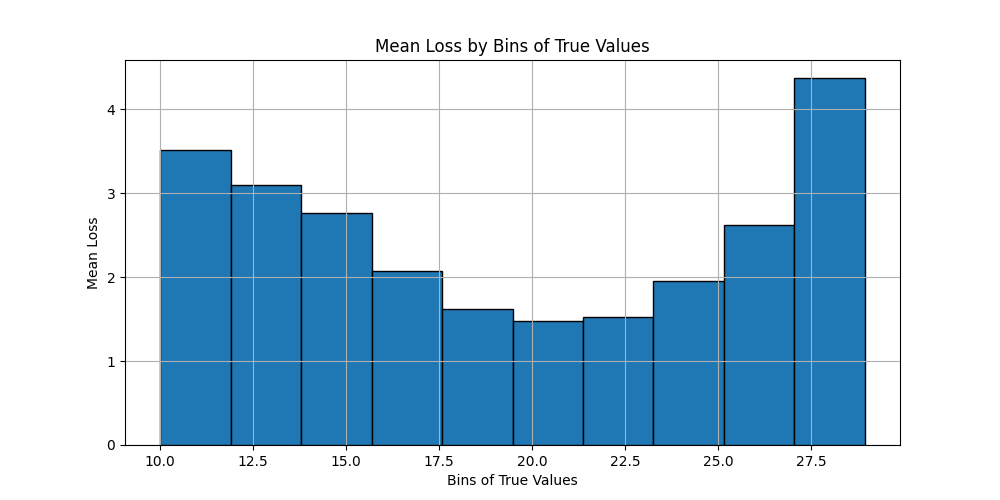
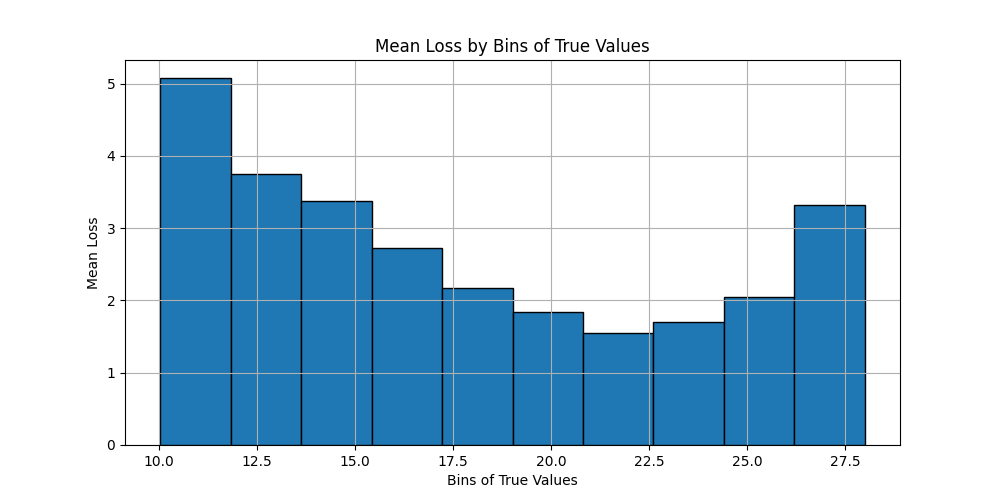
optuna dashboard

diff --git a/hyp_tune.py b/hyp_tune.py
@@ -6,6 +6,10 @@ import matplotlib.pyplot as plt
 from torch_geometric.loader import DataLoader
 import numpy as np
 import optuna
+import logging
+import torch
+
+logging.basicConfig(level=logging.INFO)
 
 def calculate_mean_loss_per_bin(true_values, predicted_values, num_bins=10):
     # Binning the true values
@@ -27,14 +31,14 @@ def calculate_mean_loss_per_bin(true_values, predicted_values, num_bins=10):
             mean_losses.append(0)
 
     return bins, mean_losses
-def run_training_and_evaluation(train_loader, test_loader, hidden_dim1=256, hidden_dim2=128, num_epochs=100, lr=0.01, dropout_rate=0.5):
+def run_training_and_evaluation(train_loader, test_loader, hidden_dim1=256, hidden_dim2=128, rnn_hidden_dim=128, lr=0.01, dropout_rate=0.5, weight_decay=5e-4, num_epochs=100):
     # mlflow.log_param("num_epochs", num_epochs)
     input_dim = 100
     # mlflow.log_param("hidden_dim1", hidden_dim1)
     # mlflow.log_param("hidden_dim2", hidden_dim2)
     # mlflow.log_param("rnn_hidden_dim", rnn_hidden_dim)
-    model = SimpleGNN(input_dim=input_dim, hidden_dim1=hidden_dim1, hidden_dim2=hidden_dim2, dropout_rate=dropout_rate)
-    optimizer = torch.optim.AdamW(model.parameters(), lr, weight_decay=5e-4)
+    model = SequentialRNNGNN(input_dim=input_dim, hidden_dim1=hidden_dim1, hidden_dim2=hidden_dim2, rnn_hidden_dim=rnn_hidden_dim, dropout_rate=dropout_rate)
+    optimizer = torch.optim.AdamW(model.parameters(), lr, weight_decay=weight_decay)
     # criterion is RMSE loss
     mse_loss_criterion = torch.nn.MSELoss()  # Mean Squared Error for regression
     l1_loss_criterion = torch.nn.L1Loss()    # Mean Absolute Error for validation
@@ -107,29 +111,28 @@ def run_training_and_evaluation(train_loader, test_loader, hidden_dim1=256, hidd
 
 def objective(trial):
     # Define hyperparameters using trial object
-    lr = trial.suggest_float("lr", 1e-5, 1e-1, log=True)
+    lr = trial.suggest_float("lr", 1e-4, 1e-1, log=True)
     dropout_rate = trial.suggest_float("dropout_rate", 0.1, 0.6)
-    batch_size = trial.suggest_categorical("batch_size", [16, 32, 64])
+    weight_decay = trial.suggest_float("weight_decay", 1e-5, 1e-3, log=True)
     hidden_dim1 = trial.suggest_categorical("hidden_dim1", [256, 512, 128])
     hidden_dim2 = trial.suggest_categorical("hidden_dim2", [128, 256, 64])
+    rnn_hidden_dim = trial.suggest_categorical("rnn_hidden_dim", [64, 128, 256])
     fold_data_lists = data_loading()
     fold_val_losses = []
 
     for train_data, test_data in fold_data_lists:
-        train_loader = DataLoader(train_data, batch_size=batch_size, shuffle=True)
-        test_loader = DataLoader(test_data, batch_size=batch_size, shuffle=False)
+        train_loader = DataLoader(train_data, batch_size=32, shuffle=True)
+        test_loader = DataLoader(test_data, batch_size=32, shuffle=False)
 
         # Run the training and validation process for each fold
         best_val_loss = run_training_and_evaluation(
             train_loader, test_loader,
-            hidden_dim1, hidden_dim2,
-            num_epochs=50, lr=lr, dropout_rate=dropout_rate
-        )
+            hidden_dim1, hidden_dim2, rnn_hidden_dim,
+            lr, dropout_rate, weight_decay, num_epochs=50)
         fold_val_losses.append(best_val_loss)
-
-    # Average the best validation loss across all folds
-    avg_val_loss = sum(fold_val_losses) / len(fold_val_losses)
     
+    avg_val_loss = sum(fold_val_losses) / len(fold_val_losses)
+
     return avg_val_loss
 
 def main():
@@ -176,15 +179,15 @@ if __name__ == "__main__":
     # Ensure that Optuna reuses the study if it exists, otherwise create a new one
     try:
         study = optuna.load_study(
-            study_name="Hyperparameter Tuning", 
-            storage="sqlite:///hyptune.db"
+            study_name="Hyperparameter Tuning RNN", 
+            storage="sqlite:///hyptune_RNN.db"
         )
     except KeyError:
         # If the study does not exist, create a new one
         study = optuna.create_study(
             direction="minimize", 
-            study_name="Hyperparameter Tuning", 
-            storage="sqlite:///hyptune.db",
+            study_name="Hyperparameter Tuning RNN", 
+            storage="sqlite:///hyptune_RNN.db",
             load_if_exists=True
         )
 

diff --git a/graphgen.py b/graphgen.py
@@ -17,6 +17,7 @@ import ast
 import sqlite3
 import torch
 from scipy.sparse import csr_matrix
+from gnn import adjacency_to_edge_index
 
 
 # Constants
@@ -392,10 +393,18 @@ def build_and_save_graphs_with_features(index: int):
     df_edges = get_edge_data_from_db(index)
     df_edges = df_edges.sort_values(by='edge_index')
     for _, edge_row in df_edges.iterrows():
-        G.add_edge(edge_row['start_node'], edge_row['end_node'])
+        foothold_counter = 0    
+        features_temp= [i[1]['coordinates'] for i in G.nodes(data=True)]
+        for i in G.nodes(data=True):
+            if i[0] == edge_row['start_node']:
+                start_node_coord = i[1]['coordinates']
+                break
+        for i in features_temp: 
+            if i[1] < start_node_coord[1] and np.linalg.norm(np.array(i) - np.array(start_node_coord)) <= 80 :
+                foothold_counter += 1
+        G.add_edge(edge_row['start_node'], edge_row['end_node'], footholds=foothold_counter)
     adjacency_matrix = nx.adjacency_matrix(G)
     save_npz(f"data/npzs/adjacency_mtrx/{index}.npz", adjacency_matrix)
-    from gnn import adjacency_to_edge_index
     edge_index = adjacency_to_edge_index(adjacency_matrix.todense())
     features_list = []
     for node in G.nodes(data=True):
@@ -413,6 +422,14 @@ def build_and_save_graphs_with_features(index: int):
     
     ordered_edges = df_edges[['start_node', 'end_node']].values.tolist()
     indexed_edges = []
+    foothold_attributes = []
+    for start_node, end_node in ordered_edges:
+    # Retrieve the foothold attribute from the edge
+        foothold = G[start_node][end_node]['footholds'] if G.has_edge(start_node, end_node) else 0
+        foothold_attributes.append(foothold)
+    foothold_attribute_tensor = torch.tensor(foothold_attributes, dtype=torch.long)
+    torch.save(foothold_attribute_tensor, f"data/tensors/foothold_attributes_{index}.pt")
+
     for start, end in ordered_edges:
         edge_tuple = (nodes_dict[start], nodes_dict[end])
         if edge_tuple not in indexed_edges:
@@ -423,12 +440,10 @@ def build_and_save_graphs_with_features(index: int):
     climb_info = {'name': climb_name, 'difficulty': climb_difficulty}
     with open(f"data/jsons/climb_info/{index}.json", "w") as file:
         json.dump(climb_info, file)
-
-
     return G
 
 if __name__ == "__main__":
     index = 4210
-    for i in tqdm(range(3500, index+1)):
+    for i in tqdm(range(0, index+1)):
         build_and_save_graphs_with_features(i)
         # exit()

diff --git a/gnn.py b/gnn.py
@@ -328,7 +328,6 @@ def run_training_and_evaluation(num_epochs=100, lr=0.005, save_path='best_model.
             val_loss_list.append(avg_val_loss)
         mlflow.end_run()
 
-        
     model.load_state_dict(torch.load(save_path))
     return model, val_loss_list, train_loss_list
 
